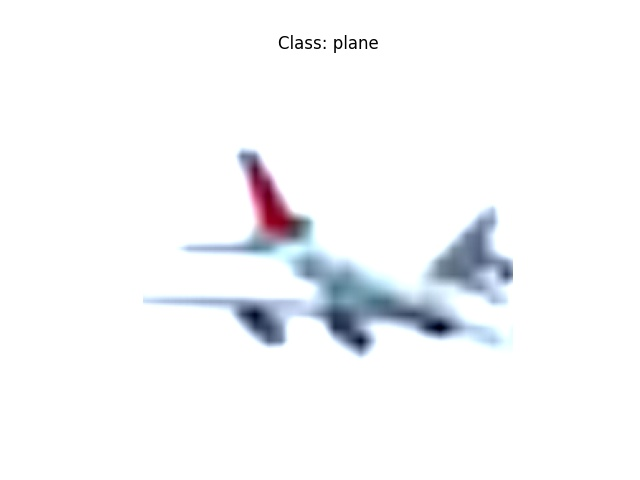
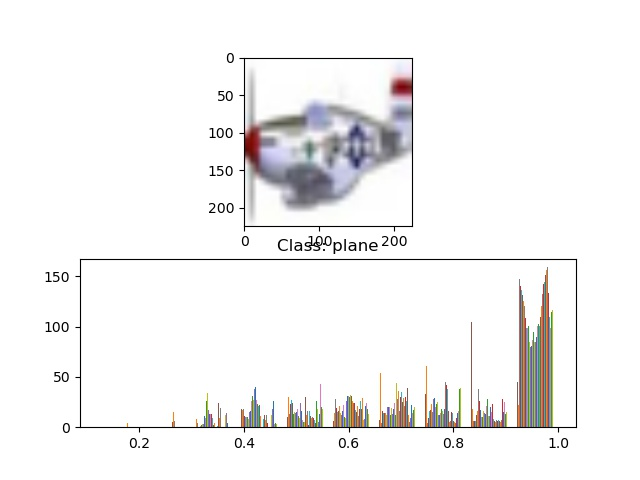
update visualization to include histogram of image data

diff --git a/helper.py b/helper.py
@@ -10,12 +10,20 @@ classes = ('plane', 'car', 'bird', 'cat', 'deer',
 def visualize_one(data):
     image, label = data
 
-    image = np.transpose(unnormalize(image[0].numpy()), (1, 2, 0))
-    label = label[0].item()
+    image = np.transpose(image[0].numpy(), (1, 2, 0))
+    label = label[0].argmax(0)
 
-    plt.axis(False)
-    plt.imshow(image)
+    print(image)
+    print(label)
+
+    fig, (ax1, ax2) = plt.subplots(2)
+    # plt.axis(False)
+
     plt.title(f'Class: {classes[label]}')
+    
+    ax1.imshow(image)
+    ax2.hist(image[:,:,0])
+
     plt.savefig('out/test.jpg')
 
 
